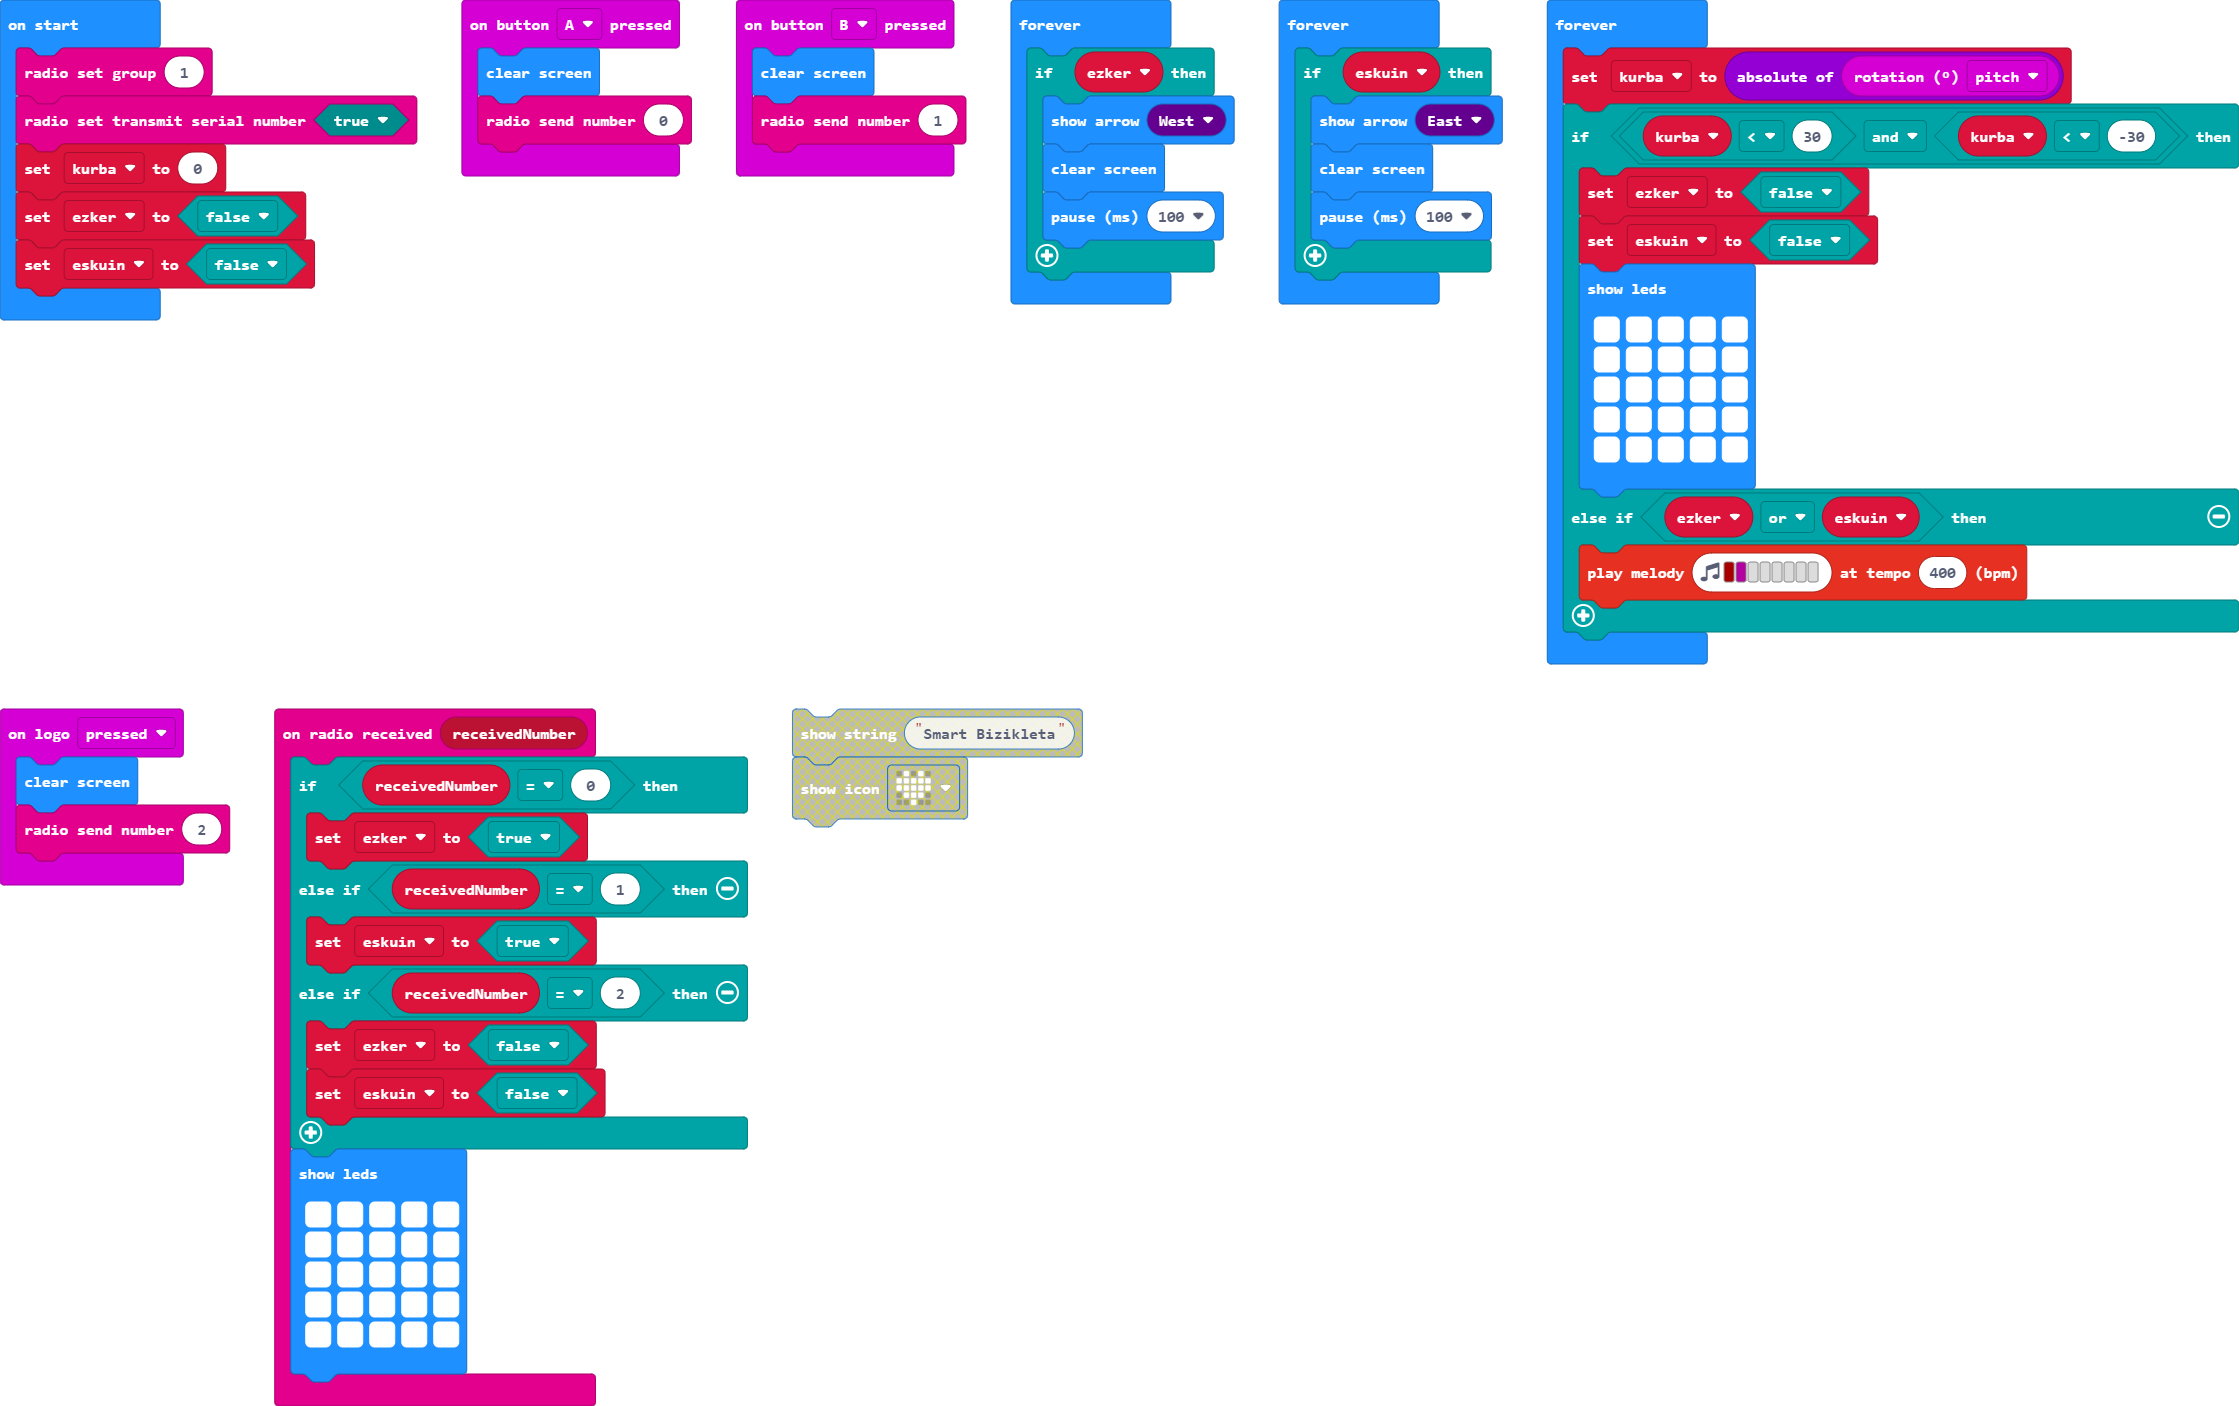
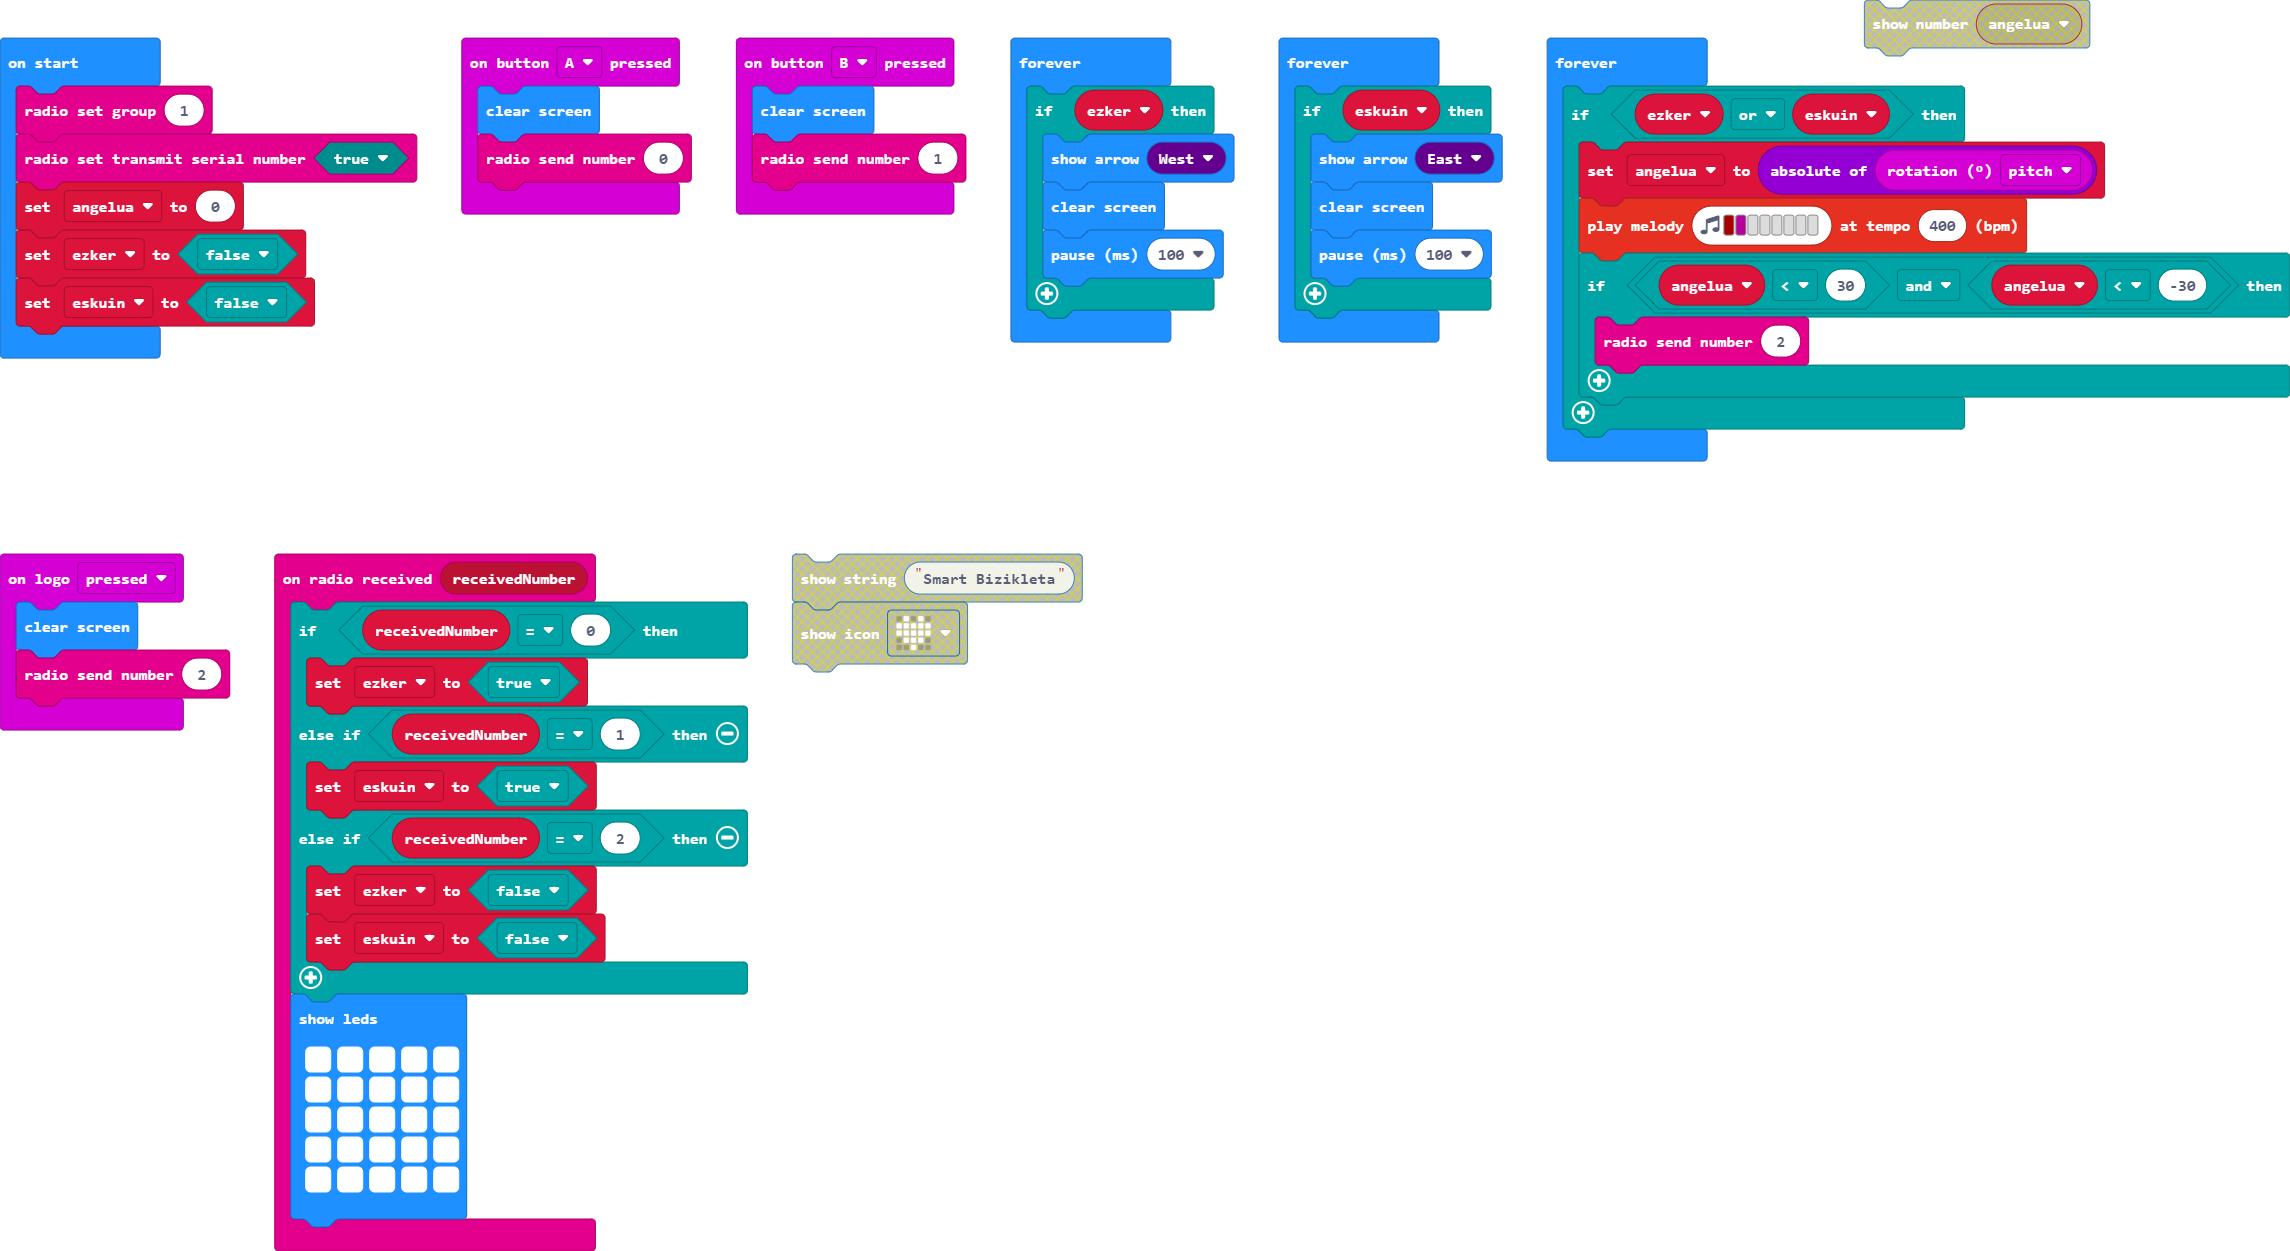
Update main.blocks, main.ts

diff --git a/main.ts b/main.ts
@@ -31,7 +31,7 @@ let eskuin = false
 let ezker = false
 radio.setGroup(1)
 radio.setTransmitSerialNumber(true)
-let kurba = 0
+let angelua = 0
 ezker = false
 eskuin = false
 basic.forever(function () {
@@ -49,18 +49,11 @@ basic.forever(function () {
     }
 })
 basic.forever(function () {
-    kurba = Math.abs(input.rotation(Rotation.Pitch))
-    if (kurba < 30 && kurba < -30) {
-        ezker = false
-        eskuin = false
-        basic.showLeds(`
-            # # # # #
-            # # # # #
-            # # # # #
-            # # # # #
-            # # # # #
-            `)
-    } else if (ezker || eskuin) {
+    if (ezker || eskuin) {
+        angelua = Math.abs(input.rotation(Rotation.Pitch))
         music.playMelody("C5 C - - - - - - ", 400)
+        if (angelua < 30 && angelua < -30) {
+            radio.sendNumber(2)
+        }
     }
 })
